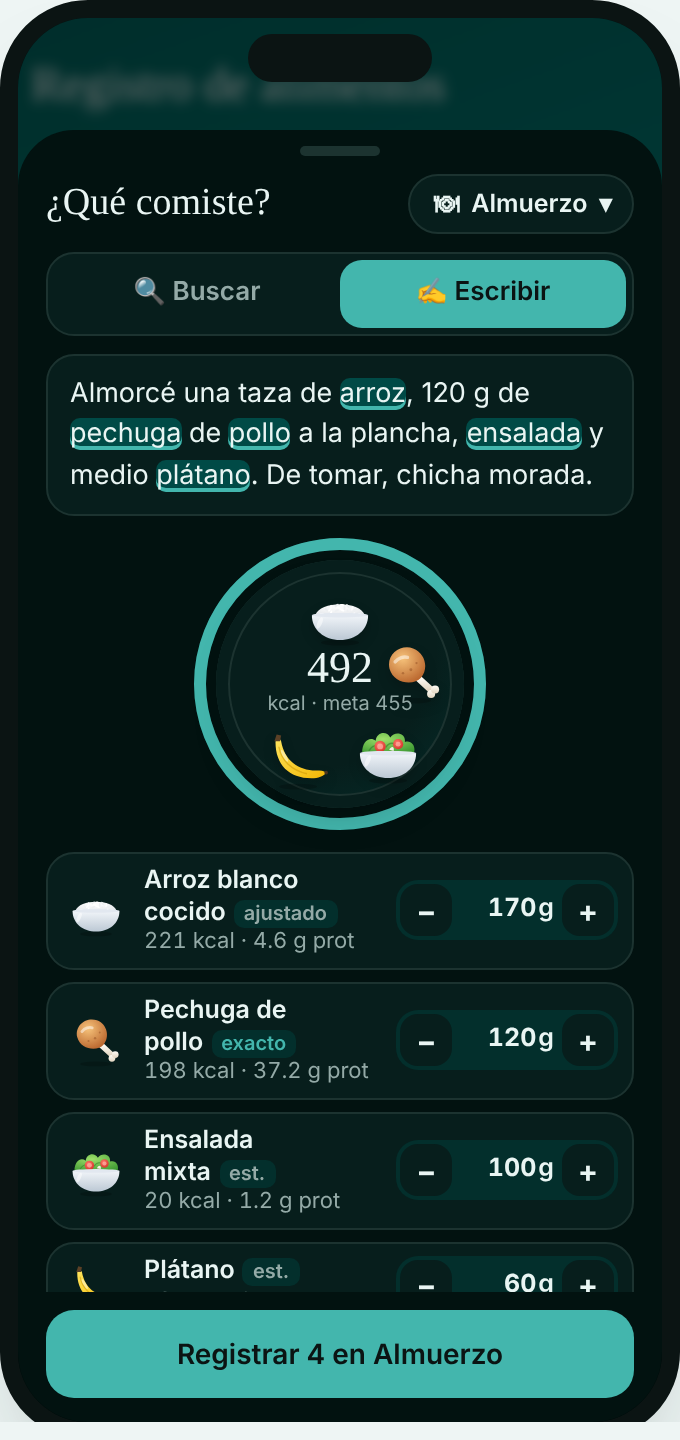
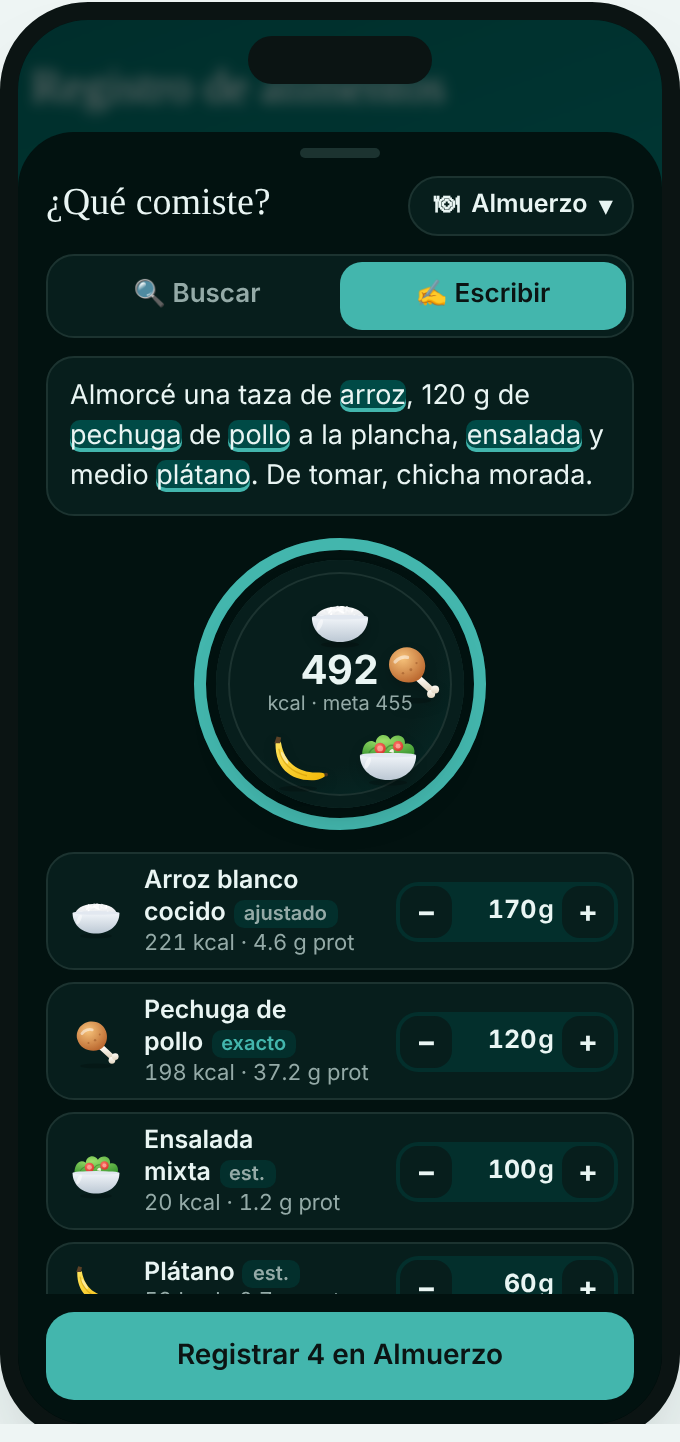
Buscar en cuadrícula: 4 por fila, frecuentes por momento, números uniformes y pantalla de recipientes
Claude-Session: https://claude.ai/code/session_01T8eNMV2FEhZEYY27wmz3LM

diff --git a/docs-base/flujos/que-comiste.html b/docs-base/flujos/que-comiste.html
@@ -6,7 +6,7 @@
 /* Layout: cabecera con lo decidido + barra de prueba; bloque 1 "Escribir" (un celular + notas), bloque 2 "Buscar" (tres celulares). Celulares con la paleta Turquesa de la app. */
 :root {
   --pg-bg: #EEF5F4; --pg-card: #FFFFFF; --pg-line: #D5E2E0; --pg-fg: #0C1917; --pg-fg-2: #4F6461; --pg-acc: #007D76; --pg-chip: #DDF1EE;
-  --f-titulo: "Fraunces", Georgia, serif; --f-texto: "Inter", system-ui, -apple-system, "Segoe UI", sans-serif;
+  --f-num: "Inter", system-ui, -apple-system, "Segoe UI", sans-serif; --f-titulo: "Fraunces", Georgia, serif; --f-texto: "Inter", system-ui, -apple-system, "Segoe UI", sans-serif;
   --bg:#EDF9F7; --surface:#FFFFFF; --tint:#D6F4F1; --selected:#B3E7E1; --hero:#003330; --hero-2:#004A46; --on-hero:#FFFFFF; --on-hero-soft:#82D2CA;
   --accent:#007D76; --on-accent:#FFFFFF; --text:#0C1917; --text-2:#546866; --border:#D6E1DF; --nav:#FFFFFF; --nav-active:#003330;
   --warn:#B45309; --warn-bg:#FEF3C7; --ok:#16A34A; --frame:#0B1413;
@@ -113,7 +113,8 @@ h1 { font-family: var(--f-titulo); font-weight: 500; font-size: clamp(28px, 4.6v
 .stepper input:focus { outline: 2px solid var(--accent); background: var(--surface); }
 .stepper.grande { padding: 4px; border-radius: 16px; }
 .stepper.grande button { width: 40px; height: 40px; border-radius: 13px; font-size: 20px; }
-.stepper.grande input { width: 64px; font-size: 22px; }
+.stepper.grande input { width: 56px; font-size: 16px; }
+.stepper.grande label { font-size: 16px; }
 .stepper.grande label { font-size: 15px; }
 .est { font-size: 10px; font-weight: 600; color: var(--text-2); background: var(--tint); border-radius: 5px; padding: 1px 5px; margin-left: 4px; }
 .est.exacto { color: var(--accent); }
@@ -135,7 +136,7 @@ h1 { font-family: var(--f-titulo); font-weight: 500; font-size: clamp(28px, 4.6v
 .chip.pop { animation: chipPop var(--d-slower) var(--e-over); }
 @keyframes chipPop { 55% { transform: scale(1.1); } }
 .tot { display: flex; justify-content: space-between; align-items: baseline; font-size: 12px; color: var(--text-2); font-variant-numeric: tabular-nums; }
-.tot strong { font-family: var(--f-titulo); font-weight: 500; font-size: 20px; color: var(--text); }
+.tot strong { font-family: var(--f-num); font-weight: 700; font-size: 18px; font-variant-numeric: tabular-nums; color: var(--text); }
 .recip { display: flex; flex-direction: column; gap: 7px; background: var(--bg); border-radius: 12px; padding: 8px; }
 .toggle { display: flex; align-items: center; justify-content: space-between; gap: 8px; font-size: 12px; font-weight: 500; color: var(--text); cursor: pointer; }
 .toggle .sw { width: 34px; height: 20px; border-radius: 10px; background: var(--border); position: relative; transition: background var(--d-base); flex: none; }
@@ -168,7 +169,7 @@ h1 { font-family: var(--f-titulo); font-weight: 500; font-size: clamp(28px, 4.6v
 .plato .aro { position: absolute; inset: 0; }
 .plato .base { position: absolute; inset: 13px; border-radius: 50%; background: radial-gradient(circle at 40% 35%, var(--surface) 55%, var(--tint)); box-shadow: inset 0 0 0 6px var(--surface), inset 0 0 0 7px var(--border), 0 10px 22px -12px rgba(0,0,0,.35); }
 .plato .centro { position: absolute; inset: 0; display: grid; place-items: center; text-align: center; pointer-events: none; z-index: 3; }
-.plato .centro strong { display: block; font-family: var(--f-titulo); font-weight: 500; font-size: 22px; line-height: 1; font-variant-numeric: tabular-nums; }
+.plato .centro strong { display: block; font-family: var(--f-num); font-weight: 700; font-size: 20px; line-height: 1; font-variant-numeric: tabular-nums; }
 .plato .centro span { font-size: 10px; color: var(--text-2); }
 .en-plato { position: absolute; width: 36px; height: 36px; margin: -18px 0 0 -18px; z-index: 2; animation: cae .6s var(--e-over) both; filter: drop-shadow(0 3px 3px rgba(0,0,0,.18)); }
 @keyframes cae { 0% { transform: translateY(-70px) scale(.6); opacity: 0; } 60% { transform: translateY(3px) scale(1.06); opacity: 1; } 100% { transform: none; } }
@@ -188,8 +189,8 @@ h1 { font-family: var(--f-titulo); font-weight: 500; font-size: clamp(28px, 4.6v
 .l-gr { display: flex; justify-content: space-between; align-items: center; font-size: 12px; color: var(--text-2); }
 
 /* ---------- Buscar 2: cuadrícula ---------- */
-.rejilla { display: grid; grid-template-columns: repeat(3, minmax(0,1fr)); gap: 7px; flex: none; }
-.tile { position: relative; background: var(--surface); border: 1px solid var(--border); border-radius: 16px; padding: 9px 4px 7px; display: flex; flex-direction: column; align-items: center; gap: 4px; font: inherit; font-size: 11px; font-weight: 600; color: var(--text); cursor: pointer; text-align: center; line-height: 1.2; animation: cluster var(--d-slower) var(--e-over) both; }
+.rejilla { display: grid; grid-template-columns: repeat(4, minmax(0,1fr)); gap: 6px; flex: none; }
+.tile { position: relative; background: var(--surface); border: 1px solid var(--border); border-radius: 14px; padding: 7px 2px 6px; display: flex; flex-direction: column; align-items: center; gap: 3px; font: inherit; font-size: 10.5px; min-width: 0; font-weight: 600; color: var(--text); cursor: pointer; text-align: center; line-height: 1.2; animation: cluster var(--d-slower) var(--e-over) both; }
 @keyframes cluster { from { opacity: 0; transform: scale(.4); } }
 .tile.tiene { border-color: var(--accent); background: var(--tint); }
 .tile .badge { position: absolute; top: -5px; right: -4px; background: var(--accent); color: var(--on-accent); border-radius: 999px; font-size: 10px; padding: 1px 6px; font-variant-numeric: tabular-nums; animation: chipPop var(--d-slower) var(--e-over); }
@@ -202,9 +203,30 @@ h1 { font-family: var(--f-titulo); font-weight: 500; font-size: clamp(28px, 4.6v
 .ficha .cab-f span { font-size: 11.5px; color: var(--text-2); }
 .macros { display: grid; grid-template-columns: repeat(4, 1fr); gap: 6px; }
 .macros div { background: var(--surface); border: 1px solid var(--border); border-radius: 12px; padding: 6px 4px; text-align: center; font-size: 10.5px; color: var(--text-2); }
-.macros strong { display: block; font-family: var(--f-titulo); font-weight: 500; font-size: 17px; color: var(--text); font-variant-numeric: tabular-nums; }
+.macros strong small { font-size: 11px; font-weight: 600; color: var(--text-2); margin-left: 1px; }
+.macros strong { display: block; font-family: var(--f-num); font-weight: 700; font-size: 16px; color: var(--text); font-variant-numeric: tabular-nums; }
 .centrado { display: flex; justify-content: center; }
 
+
+.tile .tn { width: 100%; padding: 0 2px; display: -webkit-box; -webkit-line-clamp: 2; -webkit-box-orient: vertical; overflow: hidden; overflow-wrap: anywhere; }
+.tile .veces { font-size: 9.5px; font-weight: 500; color: var(--text-2); }
+.picker { position: absolute; right: 14px; top: 46px; z-index: 30; display: flex; flex-direction: column; gap: 2px; padding: 5px; border-radius: 16px; background: color-mix(in srgb, var(--surface) 82%, transparent); backdrop-filter: blur(16px); -webkit-backdrop-filter: blur(16px); border: 1px solid var(--border); box-shadow: 0 16px 30px -12px rgba(0,0,0,.35); transform-origin: top right; animation: abrePicker var(--d-slow) var(--e-over) both; }
+@keyframes abrePicker { from { opacity: 0; transform: scale(.6) translateY(-8px); } }
+.picker button { display: flex; align-items: center; gap: 8px; border: 0; background: none; font: inherit; font-size: 13px; color: var(--text); padding: 7px 12px 7px 8px; border-radius: 11px; cursor: pointer; text-align: left; }
+.picker button.on { background: var(--tint); font-weight: 600; }
+.recip-fila { display: flex; align-items: center; justify-content: space-between; gap: 8px; font-size: 12px; }
+.recip-fila .elegido { display: inline-flex; align-items: center; gap: 6px; background: var(--surface); border: 1px solid var(--border); border-radius: 999px; padding: 3px 10px 3px 4px; font-weight: 600; cursor: pointer; font: inherit; font-size: 12px; color: var(--text); }
+.recipientes { position: absolute; inset: 0; z-index: 25; background: var(--bg); display: flex; flex-direction: column; gap: 9px; animation: entraDer var(--d-slow) var(--e-standard) both; }
+.recipientes.sale { animation: saleDer var(--d-base) var(--e-exit) both; }
+.recipientes h5 { margin: 0; font-family: var(--f-titulo); font-weight: 500; font-size: 17px; }
+.recipientes p { margin: -4px 0 0; font-size: 12px; color: var(--text-2); }
+.r-lista { display: grid; grid-template-columns: 1fr 1fr; gap: 7px; }
+.r-op { display: flex; flex-direction: column; align-items: center; gap: 4px; padding: 10px 6px; border-radius: 16px; background: var(--surface); border: 1.5px solid var(--border); font: inherit; color: var(--text); cursor: pointer; animation: cluster var(--d-slower) var(--e-over) both; transition: border-color var(--d-base), background var(--d-base); }
+.r-op b { font-size: 12.5px; font-weight: 600; }
+.r-op span { font-size: 11px; color: var(--text-2); font-variant-numeric: tabular-nums; }
+.r-op.on { border-color: var(--accent); background: var(--tint); }
+.r-op svg { width: 44px; height: 32px; }
+.r-edit { font-size: 12px; color: var(--accent); font-weight: 600; background: none; border: 0; cursor: pointer; font-family: inherit; align-self: center; }
 /* ---------- Buscar 3: balanza ---------- */
 .pesar { position: absolute; inset: 0; z-index: 20; background: var(--bg); display: flex; flex-direction: column; gap: 9px; animation: entraDer var(--d-slow) var(--e-standard) both; }
 .pesar.sale { animation: saleDer var(--d-base) var(--e-exit) both; }
@@ -227,13 +249,13 @@ h1 { font-family: var(--f-titulo); font-weight: 500; font-size: clamp(28px, 4.6v
   <h1>¿Qué comiste?</h1>
   <p class="intro">Una sola hoja para registrar comida. Arriba eliges el momento y, debajo, si quieres <b>buscar</b> alimentos o <b>escribir</b> lo que comiste. Las dos formas llenan el mismo plato, que se registra al final con un solo botón.</p>
   <ul class="decidido">
-    <li>Selector Buscar | Escribir arriba (de A)</li><li>Escribir = plato que se arma (C)</li><li>Gramos con − / + y escribibles, sin barra</li><li>Pesar con recipiente se mantiene</li>
+    <li>Selector Buscar | Escribir arriba (de A)</li><li>Escribir = plato que se arma (C)</li><li>Gramos con − / + y escribibles, sin barra</li><li>Buscar = cuadrícula de íconos, 4 por fila</li><li>Frecuentes según el momento</li><li>Números con un solo estilo</li><li>Recipiente en pantalla aparte</li>
   </ul>
   <div class="prueba">
     <label for="frase">Frase para la parte de escribir</label>
     <textarea id="frase" rows="2"></textarea>
     <div class="ctl">
-      <button type="button" class="pri" id="demo">▶ Ver demo en los 4</button>
+      <button type="button" class="pri" id="demo">▶ Ver demo</button>
       <button type="button" id="reinicia">Reiniciar</button>
       <button type="button" data-tema="claro" aria-pressed="true">Claro</button>
       <button type="button" data-tema="oscuro" aria-pressed="false">Oscuro</button>
@@ -257,29 +279,29 @@ h1 { font-family: var(--f-titulo); font-weight: 500; font-size: clamp(28px, 4.6v
   </section>
 
   <section class="bloque" aria-labelledby="h-bus">
-    <h2 id="h-bus">Buscar · elige uno de 3</h2>
-    <p>Las tres formas suman al mismo plato de abajo, usan − / + con gramos escribibles y permiten pesar con recipiente para descontar la tara.</p>
+    <h2 id="h-bus">Buscar · cuadrícula de íconos (elegida)</h2>
+    <p>Con tus cambios: 4 íconos por fila, frecuentes que cambian con el momento, números con el mismo estilo y el recipiente en una pantalla aparte.</p>
     <div class="modelos">
       <section class="modelo">
-        <header><span class="letra">1</span><h3>Lista que se despliega</h3></header>
-        <p class="desc">Lo más cercano a lo de hoy. Buscas, tocas "+" y la fila se abre ahí mismo con los gramos y el recipiente. Categorías con íconos para filtrar rápido.</p>
-        <div class="tel" id="tel1"></div>
-        <button type="button" class="btn-modelo" data-solo="1">▶ Ver solo este</button>
-        <div class="mov"><code>acordeón con resorte</code><code>fab-rotate (+ → ×)</code><code>toggle-spring</code><code>shared-element al plato</code><code>count-up</code></div>
+        <header><span class="letra">1</span><h3>Frecuentes según el momento</h3></header>
+        <p class="desc">Al cambiar Desayuno, Almuerzo, Cena o Colación, la cuadrícula muestra lo que más comes en ese momento, ordenado por cuántas veces lo registraste en los últimos 30 días.</p>
+        <div class="tel" id="telG"></div>
+        <button type="button" class="btn-modelo" data-solo="G">▶ Ver solo este</button>
+        <div class="mov"><code>glass-picker</code><code>text-morph</code><code>cluster-pop</code><code>shared-element al plato</code></div>
       </section>
       <section class="modelo">
-        <header><span class="letra">2</span><h3>Cuadrícula de íconos</h3></header>
-        <p class="desc">Tus frecuentes como mosaico de íconos grandes, que se filtran mientras escribes. Al tocar uno se abre su ficha con porciones rápidas, macros y recipiente.</p>
-        <div class="tel" id="tel2"></div>
-        <button type="button" class="btn-modelo" data-solo="2">▶ Ver solo este</button>
-        <div class="mov"><code>cluster-pop</code><code>shared-element (mosaico → ficha)</code><code>chip-pop</code><code>count-up</code><code>icon-bounce</code></div>
+        <header><span class="letra">2</span><h3>Ficha del alimento</h3></header>
+        <p class="desc">Calorías, proteína, carbohidratos y grasa con la misma letra y tamaño que los gramos. Las porciones rápidas y el − / + cambian todo al mismo tiempo.</p>
+        <div class="tel" id="telF"></div>
+        <button type="button" class="btn-modelo" data-solo="F">▶ Ver solo este</button>
+        <div class="mov"><code>shared-element (mosaico → ficha)</code><code>icon-pop</code><code>chip-pop</code><code>press-scale</code></div>
       </section>
       <section class="modelo">
-        <header><span class="letra">3</span><h3>Balanza</h3></header>
-        <p class="desc">Pensado para quien pesa todo. Eliges el alimento y pasas a una pantalla tipo balanza con números grandes, teclado y la tara del recipiente descontada al instante.</p>
-        <div class="tel" id="tel3"></div>
-        <button type="button" class="btn-modelo" data-solo="3">▶ Ver solo este</button>
-        <div class="mov"><code>push-slide / pop-slide</code><code>count-up del neto</code><code>press-scale (teclado)</code><code>chip-pop</code><code>shared-element al plato</code></div>
+        <header><span class="letra">3</span><h3>Elegir el recipiente</h3></header>
+        <p class="desc">Al activar "Lo pesé con un recipiente" se abre una pantalla con todos tus recipientes y su tara. Al elegir, vuelve a la ficha con el peso neto ya calculado.</p>
+        <div class="tel" id="telR"></div>
+        <button type="button" class="btn-modelo" data-solo="R">▶ Ver solo este</button>
+        <div class="mov"><code>toggle-spring</code><code>push-slide / pop-slide</code><code>cluster-pop</code><code>count-up</code></div>
       </section>
     </div>
   </section>
@@ -1085,21 +1107,29 @@ window.__BASE=[["f01", "Pechuga de pollo", "proteina", 165, 31, 0, 3.6], ["f03",
     el.innerHTML = `<div class="isla"></div><div class="fondo"><div class="hero">Registro de alimentos</div><div class="lin"></div><div class="lin"></div><div class="lin"></div></div>
       <div class="hoja" role="dialog" aria-label="¿Qué comiste?">
         <div class="asa"></div>
-        <div class="cab"><h4>¿Qué comiste?</h4><button type="button" class="vidrio">🍽 <span class="m">Almuerzo</span> ▾</button></div>
+        <div class="cab"><h4>¿Qué comiste?</h4><button type="button" class="vidrio" aria-haspopup="listbox">🍽 <span class="m">Almuerzo</span> ▾</button></div>
         <div class="seg ${inicial === "escribir" ? "der" : ""}"><span class="ind"></span><button type="button" data-v="buscar" class="${inicial === "buscar" ? "on" : ""}">🔍 Buscar</button><button type="button" data-v="escribir" class="${inicial === "escribir" ? "on" : ""}">✍ Escribir</button></div>
         <div class="zona"></div>
         <div class="pie"></div>
       </div>`;
     const orden = ["desayuno", "almuerzo", "cena", "colacion"];
-    $(".vidrio", el).onclick = () => H.ponerMomento(orden[(orden.indexOf(H.momento) + 1) % 4]);
-    H.ponerMomento = (m) => { if (!m || m === H.momento) return; H.momento = m; const s = $(".vidrio .m", el); s.classList.remove("cambia"); void s.offsetWidth; s.classList.add("cambia"); setTimeout(() => s.textContent = MOM[m], 230); H.pie(); };
+    const EMO = { desayuno: "☕", almuerzo: "🍽", cena: "🌙", colacion: "🍎" };
+    $(".vidrio", el).onclick = (e) => {
+      e.stopPropagation(); const ya = $(".picker", el); if (ya) return ya.remove();
+      $(".hoja", el).insertAdjacentHTML("beforeend", `<div class="picker" role="listbox">${orden.map((m) => `<button type="button" data-m="${m}" class="${m === H.momento ? "on" : ""}">${EMO[m]} ${MOM[m]}</button>`).join("")}</div>`);
+      el.querySelectorAll(".picker button").forEach((b) => b.onclick = () => { $(".picker", el).remove(); H.ponerMomento(b.dataset.m); });
+    };
+    H.ponerMomento = (m) => {
+      if (!m || m === H.momento) return; H.momento = m; const s = $(".vidrio .m", el); s.classList.remove("cambia"); void s.offsetWidth; s.classList.add("cambia");
+      setTimeout(() => { s.textContent = MOM[m]; $(".vidrio", el).firstChild.textContent = EMO[m] + " "; }, 230); H.pie(); if (H.alMomento) H.alMomento(m);
+    };
     el.querySelectorAll(".seg button").forEach((b) => b.onclick = () => H.cambiar(b.dataset.v));
     H.cambiar = (v) => {
       const seg = $(".seg", el); const dir = v === "escribir" ? "entra-der" : "entra-izq";
       seg.classList.toggle("der", v === "escribir"); seg.querySelectorAll("button").forEach((x) => x.classList.toggle("on", x.dataset.v === v));
       H.modo = v; H.render(dir);
     };
-    H.render = (dir = "") => { const z = $(".zona", el); z.innerHTML = `<div class="vista ${dir}"></div>`; const vista = $(".vista", z); if (H.modo === "escribir") escribir(H, vista); else modoBuscar(H, vista); H.pie(); };
+    H.render = (dir = "") => { H.alMomento = null; const z = $(".zona", el); z.innerHTML = `<div class="vista ${dir}"></div>`; const vista = $(".vista", z); if (H.modo === "escribir") escribir(H, vista); else modoBuscar(H, vista); H.pie(); };
     H.pie = () => {
       const p = $(".pie", el), t = suma(H.items), n = H.items.length;
       if (H.modo === "escribir") { p.innerHTML = `<button type="button" class="btn reg" ${n ? "" : "disabled"}><span class="txt">Registrar ${n ? n + " " : ""}en ${MOM[H.momento]}</span>${CHECK}</button>`; }
@@ -1210,37 +1240,71 @@ window.__BASE=[["f01", "Pechuga de pollo", "proteina", 165, 31, 0, 3.6], ["f03",
     if (["f08", "f25", "f60"].includes(id)) { const c = { f08: 10, f25: 13, f60: 21 }[id]; return [["1 cda", c], ["2 cdas", c * 2], ["4 cdas", c * 4]]; }
     const p = porcion(id); return [["½ porción", Math.round(p / 2)], [`1 porción`, p], ["100 g", 100]];
   }
+  /* Frecuentes por momento: en la app se calculan contando el registro de los últimos 30 días.
+     Aquí, un historial de ejemplo (veces en 30 días). */
+  const HIST = {
+    desayuno: [["f08",14],["f27",12],["f21",11],["f03",9],["f48",8],["f28",7],["f24",6],["f20",4],["f60",3],["f65",2],["f40",2],["f26",1]],
+    almuerzo: [["f10",15],["f01",12],["f18",11],["f06",7],["f11",7],["f14",6],["f32",5],["f15",4],["f19",4],["f39",3],["f49",2],["f12",2]],
+    cena: [["f03",10],["f48",8],["f33",7],["f15",7],["f14",5],["f18",5],["f12",4],["f05",3],["f17",3],["f24",2],["f29",2],["f51",1]],
+    colacion: [["f20",12],["f27",9],["f26",8],["f43",7],["f62",5],["f40",4],["f55",4],["f65",3],["f56",2],["f54",2],["f53",1],["f29",1]],
+  };
+  const SVG_REC = {
+    ninguno: '<svg viewBox="0 0 44 32"><circle cx="22" cy="16" r="11" fill="none" stroke="currentColor" stroke-width="2.4" opacity=".55"/><path d="M14 24 30 8" stroke="currentColor" stroke-width="2.4" stroke-linecap="round" opacity=".55"/></svg>',
+    plato: '<svg viewBox="0 0 44 32"><ellipse cx="22" cy="20" rx="20" ry="7" fill="#E3E8EC"/><ellipse cx="22" cy="18.5" rx="20" ry="6.5" fill="#FFFFFF" stroke="#C7D0DA"/><ellipse cx="22" cy="18.5" rx="12" ry="3.6" fill="none" stroke="#D5DCE3"/></svg>',
+    bol1: '<svg viewBox="0 0 44 32"><path d="M4 12h36c0 10-8 17-18 17S4 22 4 12z" fill="#5BA8D8"/><ellipse cx="22" cy="12" rx="18" ry="4" fill="#A9D5F0"/></svg>',
+    bol2: '<svg viewBox="0 0 44 32"><path d="M6 10h32c0 11-7 19-16 19S6 21 6 10z" fill="#E59A5C"/><ellipse cx="22" cy="10" rx="16" ry="3.6" fill="#F6C79C"/></svg>',
+    taper: '<svg viewBox="0 0 44 32"><rect x="5" y="11" width="34" height="17" rx="4" fill="#BFE6DC"/><rect x="3" y="7" width="38" height="6" rx="3" fill="#2EA88C"/></svg>',
+  };
+  const RECIP2 = [{ id: "plato", n: "Plato", t: 320 }, { id: "bol1", n: "Bol 1", t: 180 }, { id: "bol2", n: "Bol 2", t: 240 }, { id: "taper", n: "Táper", t: 95 }];
+  const recOf = (id) => RECIP2.find((x) => x.id === id) || { id: "ninguno", n: "Sin recipiente", t: 0 };
   function buscar2(H, v) {
-    v.innerHTML = `<div class="buscador">🔍<input type="search" placeholder="Filtra tus alimentos…" aria-label="Buscar alimento"></div><p class="t-sec">Tus frecuentes</p><div class="rejilla"></div>`;
+    v.innerHTML = `<div class="buscador">🔍<input type="search" placeholder="Busca o filtra tus alimentos…" aria-label="Buscar alimento"></div><p class="t-sec"></p><div class="rejilla"></div>`;
     const inp = $("input", v);
     const pintar = () => {
-      const ids = buscar(inp.value); $(".t-sec", v).textContent = inp.value ? (ids.length === 1 ? "1 resultado" : `${ids.length} resultados`) : "Tus frecuentes";
-      $(".rejilla", v).innerHTML = ids.map((id, i) => { const en = H.items.find((x) => x.id === id); return `<button type="button" class="tile ${en ? "tiene" : ""}" style="animation-delay:${i * 45}ms" data-id="${id}">${en ? `<span class="badge">${en.g} g</span>` : ""}${ico(id, 42)}<span>${corto(id)}</span></button>`; }).join("");
+      let ids, veces = {};
+      if (inp.value.trim()) { ids = buscar(inp.value); $(".t-sec", v).textContent = ids.length === 1 ? "1 resultado" : `${ids.length} resultados`; }
+      else { HIST[H.momento].forEach(([id, n]) => veces[id] = n); ids = HIST[H.momento].map((x) => x[0]); $(".t-sec", v).textContent = `Lo que sueles comer ${{ desayuno: "en el desayuno", almuerzo: "en el almuerzo", cena: "en la cena", colacion: "en la colación" }[H.momento]}`; }
+      $(".rejilla", v).innerHTML = ids.map((id, i) => { const en = H.items.find((x) => x.id === id); return `<button type="button" class="tile ${en ? "tiene" : ""}" style="animation-delay:${i * 35}ms" data-id="${id}">${en ? `<span class="badge">${en.g} g</span>` : ""}${ico(id, 34)}<span class="tn">${corto(id).replace(/ (cocid[oa]s?|enter[oa]|fresc[oa]|natural|crud[oa]|firme|al vapor|desamargado|tostada|partida cocida|mixta)$/i, "")}</span>${veces[id] ? `<span class="veces">${veces[id]} veces</span>` : ""}</button>`; }).join("");
       v.querySelectorAll(".tile").forEach((t) => t.onclick = () => ficha(t));
     };
+    H.alMomento = () => { if (!inp.value.trim() && !$(".ficha", v)) pintar(); };
     const ficha = (tile) => {
       const id = tile.dataset.id, o = { g: porcion(id), rec: "ninguno" };
       const rv = v.getBoundingClientRect(), rt = tile.getBoundingClientRect();
       v.insertAdjacentHTML("beforeend", `<div class="ficha" style="--ox:${rt.left - rv.left + rt.width / 2}px;--oy:${rt.top - rv.top + v.scrollTop + rt.height / 2}px;top:${v.scrollTop}px"></div>`);
       const f = $(".ficha", v); v.style.overflow = "hidden";
       const pintarF = (prim) => {
-        const r = RECIP.find((x) => x.id === o.rec), neto = Math.max(0, o.g - r.t), a = aporte({ id, g: neto });
-        f.innerHTML = `<div class="cab-f">${ico(id, 56, prim ? "pop" : "")}<div style="flex:1;min-width:0"><b>${corto(id)}</b><span>${BASE[id].kcal} kcal por 100 g</span></div><button type="button" class="mas cerrar" style="transform:rotate(45deg)" aria-label="Cerrar">+</button></div>
-          <div class="chips">${porciones(id).map(([n, g]) => `<button type="button" class="chip solo ${o.rec === "ninguno" && o.g === g ? "on" : ""}" data-g="${g}">${n}</button>`).join("")}</div>
-          <div class="centrado">${stepper(o.g, "grande")}</div>
-          <div class="macros"><div><strong class="m0">${Math.round(a.kcal)}</strong>kcal</div><div><strong>${a.p.toFixed(1)}</strong>prot.</div><div><strong>${a.c.toFixed(1)}</strong>carb.</div><div><strong>${a.g.toFixed(1)}</strong>grasa</div></div>
-          <div class="recip"><div class="toggle ${o.rec !== "ninguno" ? "on" : ""}"><span>Lo pesé con un recipiente</span><span class="sw"></span></div>
-          ${o.rec !== "ninguno" ? `<div class="chips">${RECIP.slice(1).map((x) => `<button type="button" class="chip solo ${x.id === o.rec ? "on" : ""}" data-r="${x.id}">${x.n} · ${x.t} g</button>`).join("")}</div><span class="neto">Neto: <b>${neto} g</b> (${o.g} − ${r.t} g de ${r.n})</span>` : ""}</div>
+        const r = recOf(o.rec), neto = Math.max(0, o.g - r.t), a = aporte({ id, g: neto });
+        f.innerHTML = `<div class="cab-f">${ico(id, 52, prim ? "pop" : "")}<div style="flex:1;min-width:0"><b>${corto(id)}</b><span>${BASE[id].kcal} kcal por 100 g</span></div><button type="button" class="mas cerrar" style="transform:rotate(45deg)" aria-label="Cerrar">+</button></div>
+          <div class="chips">${porciones(id).map(([n, g]) => `<button type="button" class="chip solo ${o.g - r.t === g ? "on" : ""}" data-g="${g}">${n}</button>`).join("")}</div>
+          <div class="centrado" style="flex-direction:column;align-items:center;gap:2px"><span class="neto">${o.rec === "ninguno" ? "Peso del alimento" : "Peso total en la balanza"}</span>${stepper(o.g, "grande")}</div>
+          <div class="macros"><div><strong>${Math.round(a.kcal)}</strong>kcal</div><div><strong>${a.p.toFixed(1)}<small>g</small></strong>proteína</div><div><strong>${a.c.toFixed(1)}<small>g</small></strong>carbohid.</div><div><strong>${a.g.toFixed(1)}<small>g</small></strong>grasa</div></div>
+          <div class="recip"><div class="toggle ${o.rec !== "ninguno" ? "on" : ""}" role="switch" aria-checked="${o.rec !== "ninguno"}"><span>Lo pesé con un recipiente</span><span class="sw"></span></div>
+          ${o.rec !== "ninguno" ? `<div class="recip-fila"><button type="button" class="elegido">${SVG_REC[o.rec].replace("<svg", '<svg width="28" height="20"')}${r.n} · ${r.t} g ›</button><span class="neto">Neto <b>${neto} g</b></span></div>` : ""}</div>
           <button type="button" class="btn agr" ${neto > 0 ? "" : "disabled"}><span class="txt">Agregar ${neto} g al plato</span></button>`;
         atarStepper($(".stepper", f), o, () => pintarF());
-        f.querySelectorAll("[data-g]").forEach((b) => b.onclick = () => { o.g = +b.dataset.g + RECIP.find((x) => x.id === o.rec).t; pintarF(); });
-        $(".toggle", f).onclick = () => { if (o.rec === "ninguno") { o.rec = "plato"; o.g += 320; } else { o.g -= RECIP.find((x) => x.id === o.rec).t; o.rec = "ninguno"; } pintarF(); };
-        f.querySelectorAll("[data-r]").forEach((b) => b.onclick = () => { o.g += RECIP.find((x) => x.id === b.dataset.r).t - RECIP.find((x) => x.id === o.rec).t; o.rec = b.dataset.r; pintarF(); });
+        f.querySelectorAll("[data-g]").forEach((b) => b.onclick = () => { o.g = +b.dataset.g + r.t; pintarF(); });
+        $(".toggle", f).onclick = () => { if (o.rec === "ninguno") elegirRec(); else { o.g -= r.t; o.rec = "ninguno"; pintarF(); } };
+        const el2 = $(".elegido", f); if (el2) el2.onclick = () => elegirRec();
         $(".cerrar", f).onclick = () => cerrar();
-        $(".agr", f).onclick = () => { H.agregar(id, neto, $(".cab-f .ico", f)); cerrar(true); };
+        $(".agr", f).onclick = () => { H.agregar(id, neto, $(".cab-f .ico", f)); cerrar(); };
       };
-      const cerrar = async (ok) => { f.classList.add("cierra"); await espera(300); f.remove(); v.style.overflow = ""; pintar(); };
-      pintarF(true);
+      /* Pantalla aparte para elegir el recipiente */
+      const elegirRec = () => {
+        f.insertAdjacentHTML("beforeend", `<div class="recipientes"><button type="button" class="atras">‹ ${ico(id, 24)} ${corto(id)}</button>
+          <h5>¿En qué lo pesaste?</h5><p>Se descuenta su peso (tara) para guardar solo el alimento.</p>
+          <div class="r-lista">${[{ id: "ninguno", n: "Sin recipiente", t: 0 }].concat(RECIP2).map((x, i) => `<button type="button" class="r-op ${x.id === o.rec ? "on" : ""}" data-r="${x.id}" style="animation-delay:${i * 60}ms">${SVG_REC[x.id]}<b>${x.n}</b><span>${x.t ? "tara " + x.t + " g" : "peso directo"}</span></button>`).join("")}</div>
+          <button type="button" class="r-edit">✎ Editar mis recipientes</button></div>`);
+        const rs = $(".recipientes", f);
+        const salir = async () => { rs.classList.add("sale"); await espera(220); rs.remove(); };
+        $(".atras", rs).onclick = salir;
+        rs.querySelectorAll(".r-op").forEach((b) => b.onclick = async () => {
+          rs.querySelectorAll(".r-op").forEach((x) => x.classList.toggle("on", x === b)); await espera(260);
+          o.g = o.g - recOf(o.rec).t + recOf(b.dataset.r).t; o.rec = b.dataset.r; await salir(); pintarF();
+        });
+      };
+      const cerrar = async () => { f.classList.add("cierra"); await espera(300); f.remove(); v.style.overflow = ""; pintar(); };
+      pintarF(true); H.ficha = f;
     };
     inp.addEventListener("input", pintar); pintar(); H.inp = inp;
   }
@@ -1289,36 +1353,32 @@ window.__BASE=[["f01", "Pechuga de pollo", "proteina", 165, 31, 0, 3.6], ["f03",
 
   /* =================== Montaje y demos =================== */
   const tels = {
-    E: { el: $("#telE"), modo: buscar1, ini: "escribir" },
-    1: { el: $("#tel1"), modo: buscar1, ini: "buscar" },
-    2: { el: $("#tel2"), modo: buscar2, ini: "buscar" },
-    3: { el: $("#tel3"), modo: buscar3, ini: "buscar" },
+    E: { el: $("#telE"), modo: buscar2, ini: "escribir" },
+    G: { el: $("#telG"), modo: buscar2, ini: "buscar" },
+    F: { el: $("#telF"), modo: buscar2, ini: "buscar" },
+    R: { el: $("#telR"), modo: buscar2, ini: "buscar" },
   };
   const montar = (k) => { tels[k].H = crearHoja(tels[k].el, tels[k].modo, tels[k].ini); return tels[k].H; };
   const clic = async (el, ms = 450) => { if (!el) return; el.click(); await espera(ms); };
   const DEMOS = {
     async E(fr) {
       const H = montar("E"); await espera(600); await teclear(H.ta, fr); await espera(900);
-      const mas = H.el.querySelector(".lista .stepper button[data-d='1']"); await clic(mas, 300); await clic(H.el.querySelector(".lista .stepper button[data-d='1']"), 600);
+      await clic(H.el.querySelector(".lista .stepper button[data-d='1']"), 300); await clic(H.el.querySelector(".lista .stepper button[data-d='1']"), 600);
     },
-    async 1() {
-      const H = montar("1"); await espera(700); await teclear(H.inp, "pollo", 70); await espera(500);
-      await clic(H.el.querySelector(".l-fila .l-top"), 700); await clic(H.el.querySelector(".l-fila.abierta .toggle"), 700);
-      await clic(H.el.querySelector(".l-fila.abierta [data-r='bol1']"), 500); await clic(H.el.querySelector(".l-fila.abierta .stepper button[data-d='-1']"), 400);
-      await clic(H.el.querySelector(".l-fila.abierta .agr"), 900);
-      H.inp.value = ""; H.inp.dispatchEvent(new Event("input")); await espera(400);
-      await clic(H.el.querySelector(".chip[data-c='fruta']"), 600); await clic(H.el.querySelector(".l-fila[data-id='f21'] .l-top"), 700); await clic(H.el.querySelector(".l-fila.abierta .agr"), 700);
+    async G() { /* cambia de momento y los frecuentes se reordenan */
+      const H = montar("G"); await espera(1200);
+      for (const m of ["desayuno", "cena", "colacion", "desayuno"]) { await clic($(".vidrio", H.el), 700); await clic(H.el.querySelector(`.picker [data-m='${m}']`), 1500); }
+      await clic(H.el.querySelector(".tile"), 900); await clic(H.el.querySelector(".ficha .agr"), 900);
     },
-    async 2() {
-      const H = montar("2"); await espera(900); await clic(H.el.querySelector(".tile[data-id='f10']"), 800);
-      await clic(H.el.querySelector(".ficha [data-g]"), 500); await clic(H.el.querySelector(".ficha .stepper button[data-d='1']"), 600); await clic(H.el.querySelector(".ficha .agr"), 1000);
-      await teclear(H.inp, "hig", 90); await espera(500); await clic(H.el.querySelector(".tile[data-id='f65']"), 800); await clic(H.el.querySelectorAll(".ficha [data-g]")[1], 500); await clic(H.el.querySelector(".ficha .agr"), 900);
+    async F() { /* ficha del alimento */
+      const H = montar("F"); await espera(900); await clic(H.el.querySelector(".tile[data-id='f01']"), 900);
+      await clic(H.el.querySelector(".ficha .stepper button[data-d='1']"), 400); await clic(H.el.querySelector(".ficha .stepper button[data-d='1']"), 600);
     },
-    async 3() {
-      const H = montar("3"); await espera(700); await teclear(H.inp, "lent", 80); await espera(500); await clic(H.el.querySelector(".res .fila"), 700);
-      await clic(H.el.querySelector(".pesar [data-r='bol1']"), 500);
-      for (const k of ["3", "4", "0"]) await clic(H.el.querySelector(`.pesar [data-k='${k}']`), 260);
-      await espera(600); await clic(H.el.querySelector(".pesar .agr"), 900);
+    async R() { /* recipiente en pantalla aparte */
+      const H = montar("R"); await espera(900); await clic(H.el.querySelector(".tile[data-id='f10']"), 900);
+      await clic(H.el.querySelector(".ficha .toggle"), 900); await clic(H.el.querySelector(".r-op[data-r='bol1']"), 800);
+      const inp = H.el.querySelector(".ficha .stepper input"); if (inp) { inp.value = "345"; inp.dispatchEvent(new Event("input")); }
+      await espera(500); if (!RAP.v) { await clic(H.el.querySelector(".ficha .elegido"), 1600); }
     },
   };
   const frase = $("#frase"); frase.value = DEMO;

diff --git a/docs-base/03-APPFLOW.md b/docs-base/03-APPFLOW.md
@@ -142,3 +142,9 @@ Repetir este bloque por cada pantalla.
     1. Lista que se despliega: fila con "+" que se abre en acordeón con gramos y recipiente; categorías con íconos. `pantallas/H-03-1-buscar-lista*.png`.
     2. Cuadrícula de íconos: frecuentes en mosaico; ficha con porciones rápidas, − / + grande, macros y recipiente. `pantallas/H-03-2-buscar-cuadricula*.png`.
     3. Balanza: pantalla de pesaje con número grande, teclado y tara descontada al instante. `pantallas/H-03-3-buscar-balanza*.png`.
+- **Decisión 2026-10-23 · Buscar = cuadrícula de íconos (modelo 2)**, con estos cambios pedidos por el usuario:
+  - **4 íconos por fila** (íconos de 34 px, nombre en hasta 2 líneas) para ver más opciones.
+  - **Frecuentes según el momento:** al cambiar Desayuno / Almuerzo / Cena / Colación (selector de vidrio, `glass-picker` + `text-morph`), la cuadrícula muestra lo que más se registra en ese momento, ordenado por veces en los últimos 30 días ("12 veces"), con `cluster-pop`. Se calcula con `registros/{fecha}/items` (cada ítem ya guarda su momento); para no leer 30 días cada vez, se mantiene un contador por momento que se actualiza al agregar o borrar.
+  - **Números con un solo estilo:** kcal, proteína, carbohidratos, grasa y gramos usan la misma letra (Inter 700, cifras tabulares); macros con 1 decimal y "g".
+  - **Recipiente en pantalla aparte:** al activar "Lo pesé con un recipiente" se abre "¿En qué lo pesaste?" con todos los recipientes y su tara (`push-slide`); al elegir vuelve a la ficha con el neto calculado y el recipiente como botón para cambiarlo. Incluye "Editar mis recipientes" (va a Opciones).
+  - Capturas: `pantallas/H-03-buscar-frecuentes*.png`, `H-03-buscar-ficha*.png`, `H-03-buscar-recipientes*.png`. Los modelos 1 (lista) y 3 (balanza) quedan descartados.
